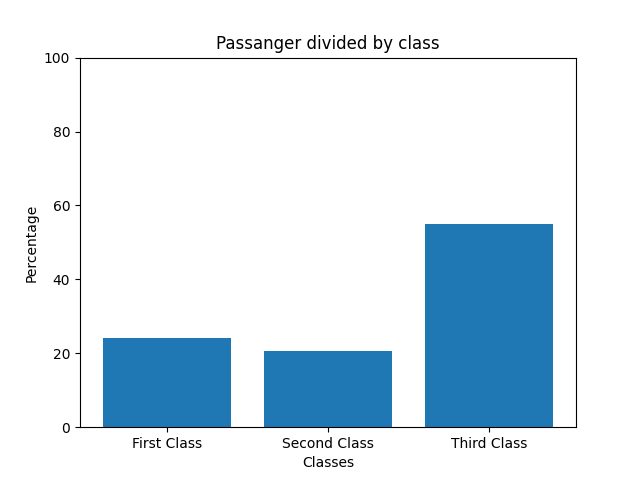
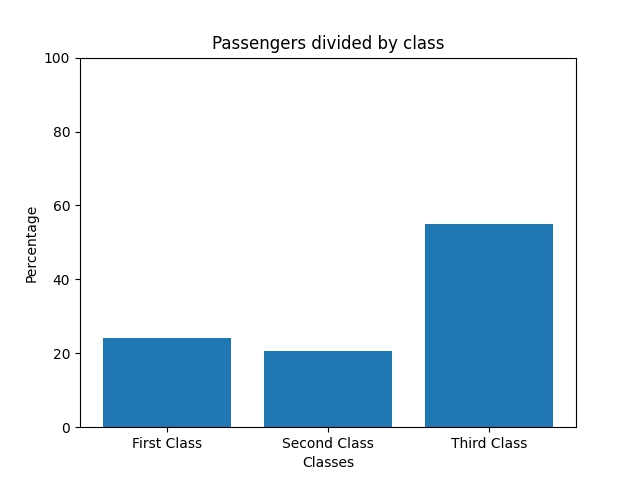
Fixed typo in the Class Graph

Changed region(s): [[0.3125, 0.0625, 0.6875, 0.125]]

diff --git a/ParteaI/Surse/Task2_Percentages.py b/ParteaI/Surse/Task2_Percentages.py
@@ -39,7 +39,7 @@ class_members = np.array([first_class, second_class, third_class])
 
 ClassGraph = plt.figure()
 plt.bar(classes, class_members)
-plt.title("Passanger divided by class")
+plt.title("Passengers divided by class")
 plt.xlabel("Classes")
 plt.ylabel("Percentage")
 plt.ylim(0, 100)
